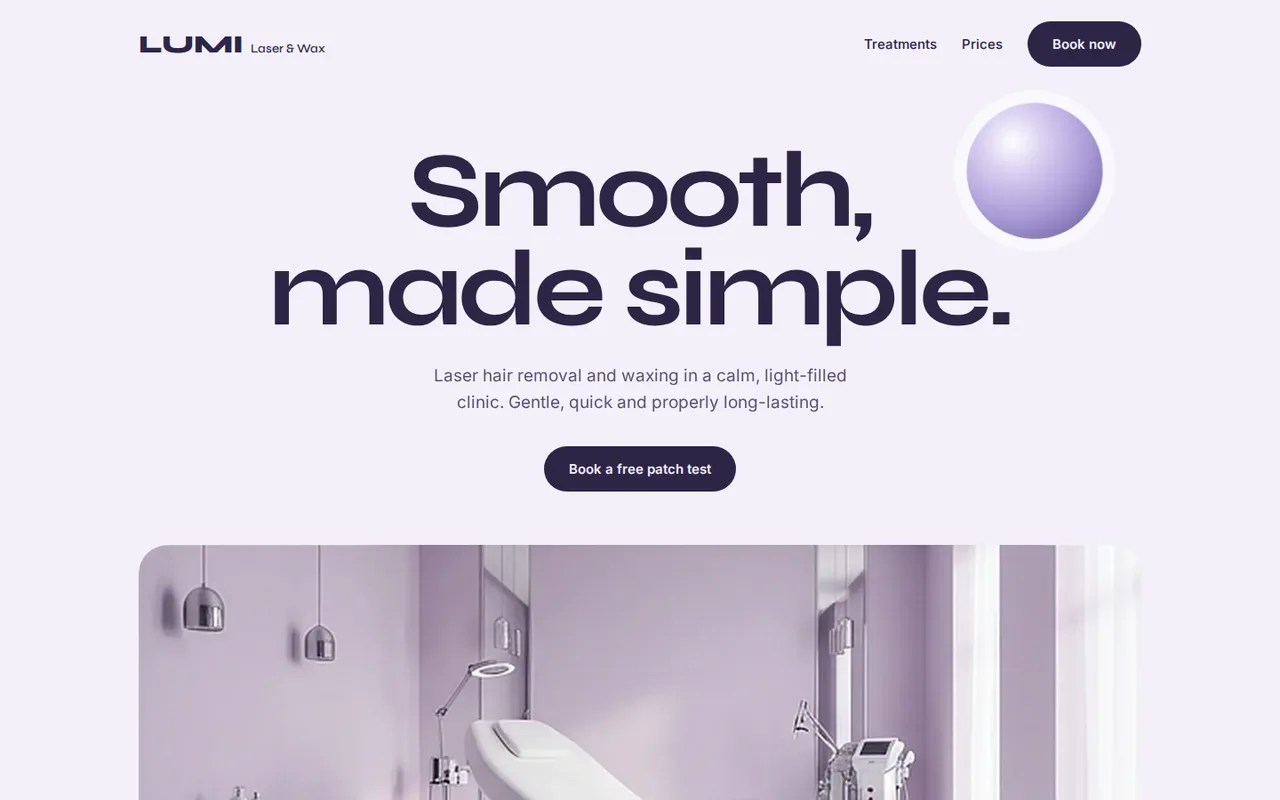
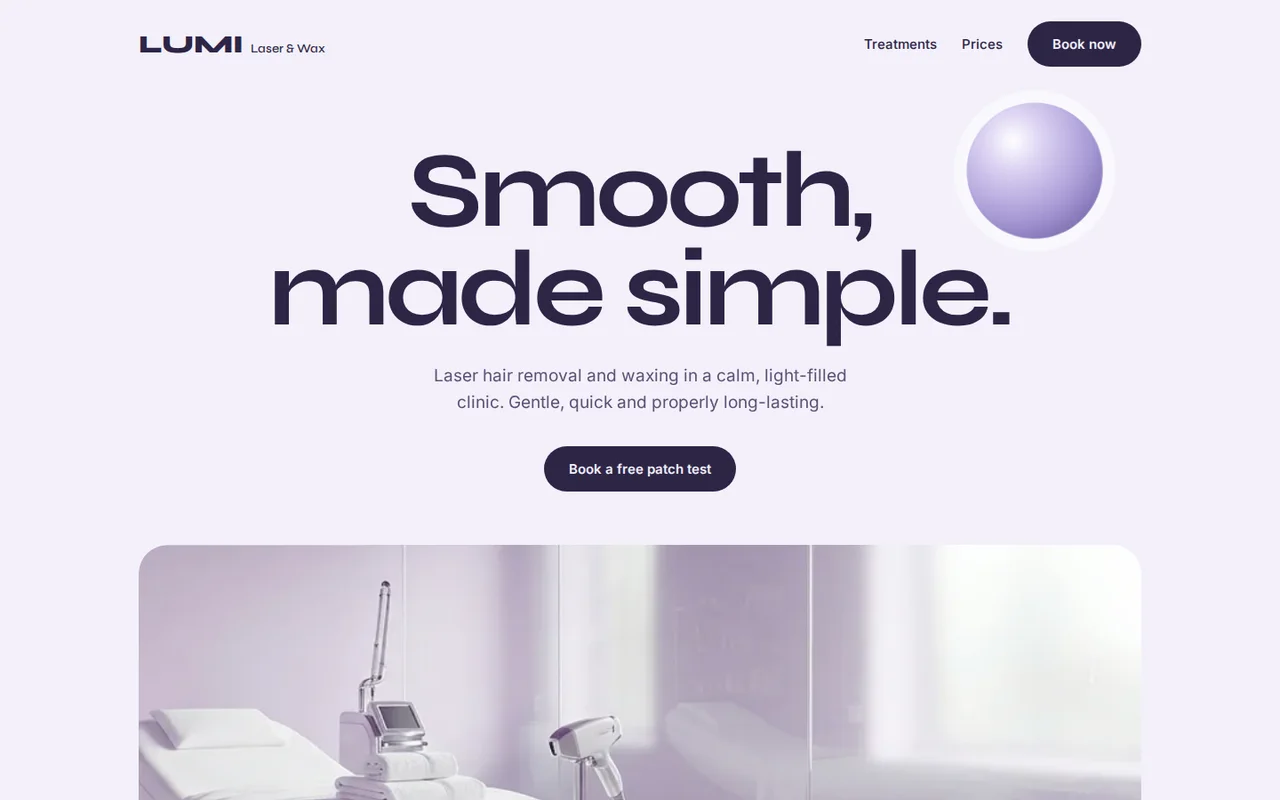
Sharper images, Nails Studio, copy polish

Changed region(s): [[0.0938, 0.6562, 0.9062, 1.0], [0.0938, 0.7188, 0.1875, 0.8125]]

diff --git a/index.html b/index.html
@@ -4,7 +4,7 @@
 <meta charset="utf-8">
 <meta name="viewport" content="width=device-width, initial-scale=1">
 <title>CA · Cindy Andruson Web Design Studio · Melbourne</title>
-<meta name="description" content="Beautiful websites that turn visitors into bookings - design, build and ongoing updates for salons, spas, clinics, cafés and studios in Melbourne. Free demo before you commit.">
+<meta name="description" content="Beautiful websites that turn visitors into bookings. Design, build and ongoing updates for salons, spas, clinics, cafés and studios in Melbourne. Free demo before you commit.">
 <meta name="theme-color" content="#FFF9F6">
 <meta property="og:type" content="website">
 <meta property="og:title" content="CA · Cindy Andruson Web Design Studio">
@@ -113,7 +113,7 @@ a:focus-visible{outline:2px solid #7A4B8C;outline-offset:4px;border-radius:99px}
         <span style="display: block; overflow: hidden"><span class="rise" style="animation-delay: 0.3s"><i class="shimmer">seriously</i> built.</span></span>
       </h1>
       <div class="fade" style="position: relative; display: flex; flex-wrap: wrap; gap: 20px; align-items: flex-end; justify-content: space-between; animation-delay: 0.6s">
-        <p style="margin: 0; max-width: 440px; font-size: 17px; line-height: 1.6; color: #4A3E4F">Beautiful websites that turn visitors into bookings - for salons, spas, clinics, cafés and studios.</p>
+        <p style="margin: 0; max-width: 440px; font-size: 17px; line-height: 1.6; color: #4A3E4F">Beautiful websites that turn visitors into bookings, for salons, spas, clinics, cafés and studios.</p>
         <div style="display: flex; flex-wrap: wrap; gap: 10px">
           <a class="btn-ink" href="mailto:andrusoncindy@gmail.com?subject=Free%20website%20demo" style="padding: 18px 30px; border-radius: 99px; text-decoration: none; font-weight: 600; font-size: 15px">Get your free demo</a>
           <a class="btn-soft" href="#work" style="padding: 18px 30px; border-radius: 99px; text-decoration: none; font-weight: 600; font-size: 15px">See the work</a>
@@ -147,7 +147,7 @@ a:focus-visible{outline:2px solid #7A4B8C;outline-offset:4px;border-radius:99px}
   <section id="work" style="max-width: 1320px; margin: 0 auto; padding: 60px clamp(16px, 4vw, 48px) 80px; display: flex; flex-direction: column; gap: 40px">
     <div class="reveal" style="display: flex; flex-wrap: wrap; gap: 20px; justify-content: space-between; align-items: flex-end">
       <h2 style="margin: 0; font-family: 'Instrument Serif', serif; font-weight: 400; font-size: clamp(48px, 6vw, 96px); line-height: 0.95; letter-spacing: -0.02em">Eight brands,<br><i class="shimmer">eight moods.</i></h2>
-      <p style="margin: 0; max-width: 360px; font-size: 16px; line-height: 1.65; color: #4A3E4F">Every site is designed from scratch - its own palette, type and personality.</p>
+      <p style="margin: 0; max-width: 360px; font-size: 16px; line-height: 1.65; color: #4A3E4F">Every site is designed from scratch, with its own palette, type and personality.</p>
     </div>
     <div class="grid3">
 <a class="tile reveal" href="https://natalyandruson.com" target="_blank" rel="noopener" style="text-decoration: none; color: inherit; border-radius: 32px; background: #F1ECE3; padding: 20px 20px 26px; display: flex; flex-direction: column; gap: 20px">
@@ -162,12 +162,12 @@ a:focus-visible{outline:2px solid #7A4B8C;outline-offset:4px;border-radius:99px}
         </a>
 <a class="tile reveal" href="/work/nails/" style="text-decoration: none; color: inherit; border-radius: 32px; background: #FAD7E0; padding: 20px 20px 26px; display: flex; flex-direction: column; gap: 20px">
           <div class="unveil" style="position: relative">
-            <div class="frame"><div style="border-radius:14px;overflow:hidden;background:#fff"><div style="display:flex;align-items:center;gap:6px;padding:9px 12px;background:#F3F0F1;border-bottom:1px solid rgba(0,0,0,.06)"><span style="width:9px;height:9px;border-radius:50%;background:#E3A3A9"></span><span style="width:9px;height:9px;border-radius:50%;background:#E9D2A6"></span><span style="width:9px;height:9px;border-radius:50%;background:#B9D4BE"></span><span style="margin-left:10px;flex:1;max-width:240px;padding:4px 12px;border-radius:99px;background:#fff;font-size:11px;color:#5F585A;white-space:nowrap;overflow:hidden">nails&amp;gel</span></div><img src="/work/nails.webp" alt="Homepage of the Nails&Gel website" loading="lazy" width="1280" height="800" style="display:block;width:100%;height:auto;aspect-ratio:16/10;object-fit:cover"></div></div>
+            <div class="frame"><div style="border-radius:14px;overflow:hidden;background:#fff"><div style="display:flex;align-items:center;gap:6px;padding:9px 12px;background:#F3F0F1;border-bottom:1px solid rgba(0,0,0,.06)"><span style="width:9px;height:9px;border-radius:50%;background:#E3A3A9"></span><span style="width:9px;height:9px;border-radius:50%;background:#E9D2A6"></span><span style="width:9px;height:9px;border-radius:50%;background:#B9D4BE"></span><span style="margin-left:10px;flex:1;max-width:240px;padding:4px 12px;border-radius:99px;background:#fff;font-size:11px;color:#5F585A;white-space:nowrap;overflow:hidden">nails studio</span></div><img src="/work/nails.webp" alt="Homepage of the Nails Studio website" loading="lazy" width="1280" height="800" style="display:block;width:100%;height:auto;aspect-ratio:16/10;object-fit:cover"></div></div>
             <span class="view" aria-hidden="true">View ↗</span>
           </div>
           <div style="display: flex; gap: 14px; align-items: flex-start; padding: 0 6px">
             <span class="num" style="font-family: 'Instrument Serif', serif; font-size: 40px; line-height: 0.85; color: rgba(43,34,51,0.3)">02</span>
-            <span style="display: flex; flex-direction: column; gap: 6px"><span style="font-family: 'Instrument Serif', serif; font-size: 32px; line-height: 1">Nails&amp;Gel</span><span style="font-size: 14px; color: #4A3E4F">Nail salon <span style="color: #A8436A">✦</span> Online booking</span></span>
+            <span style="display: flex; flex-direction: column; gap: 6px"><span style="font-family: 'Instrument Serif', serif; font-size: 32px; line-height: 1">Nails Studio</span><span style="font-size: 14px; color: #4A3E4F">Nail salon <span style="color: #A8436A">✦</span> Online booking</span></span>
           </div>
         </a>
 <a class="tile reveal" href="/work/spa/" style="text-decoration: none; color: inherit; border-radius: 32px; background: #DFE8D8; padding: 20px 20px 26px; display: flex; flex-direction: column; gap: 20px">
@@ -243,7 +243,7 @@ a:focus-visible{outline:2px solid #7A4B8C;outline-offset:4px;border-radius:99px}
       <div class="tile reveal" style="border-radius: 32px; background: #D8EFE5; padding: 32px; display: flex; flex-direction: column; gap: 14px">
         <span style="display: flex; justify-content: space-between; align-items: center"><span class="num" style="font-family: 'Instrument Serif', serif; font-size: 36px; color: rgba(43,34,51,0.35)">01</span><span class="arr" style="font-size: 26px">→</span></span>
         <span style="font-size: 22px; font-weight: 600">Design</span>
-        <span style="font-size: 15px; line-height: 1.6; color: #3B3540">A bespoke look made for your brand - never a template.</span>
+        <span style="font-size: 15px; line-height: 1.6; color: #3B3540">A bespoke look made for your brand, never a template.</span>
       </div>
       <div class="tile reveal" style="border-radius: 32px; background: #FBF1C7; padding: 32px; display: flex; flex-direction: column; gap: 14px">
         <span style="display: flex; justify-content: space-between; align-items: center"><span class="num" style="font-family: 'Instrument Serif', serif; font-size: 36px; color: rgba(43,34,51,0.35)">02</span><span class="arr" style="font-size: 26px">→</span></span>
@@ -258,7 +258,7 @@ a:focus-visible{outline:2px solid #7A4B8C;outline-offset:4px;border-radius:99px}
       <div class="tile reveal" style="grid-column: span 2; border-radius: 32px; background: #FCE3D2; padding: 32px; display: flex; flex-direction: column; gap: 14px">
         <span style="display: flex; justify-content: space-between; align-items: center"><span class="num" style="font-family: 'Instrument Serif', serif; font-size: 36px; color: rgba(43,34,51,0.35)">04</span><span class="arr" style="font-size: 26px">→</span></span>
         <span style="font-size: 22px; font-weight: 600">Updates &amp; care</span>
-        <span style="font-size: 15px; line-height: 1.6; color: #3B3540">New prices, services, photos and offers - updated for you whenever you need.</span>
+        <span style="font-size: 15px; line-height: 1.6; color: #3B3540">New prices, services, photos and offers, updated for you whenever you need.</span>
       </div>
     </div>
   </section>
@@ -269,7 +269,7 @@ a:focus-visible{outline:2px solid #7A4B8C;outline-offset:4px;border-radius:99px}
       <div class="tile reveal" style="border-radius: 28px; border: 1.5px solid #2B2233; padding: 30px; display: flex; flex-direction: column; gap: 12px">
         <span style="width: 44px; height: 44px; border-radius: 50%; background: #FAD7E0; display: flex; align-items: center; justify-content: center; font-weight: 700">1</span>
         <span style="font-size: 22px; font-weight: 600">Free demo</span>
-        <span style="font-size: 15px; line-height: 1.6; color: #4A3E4F">I design a working concept of your new site - before you pay anything.</span>
+        <span style="font-size: 15px; line-height: 1.6; color: #4A3E4F">I design a working concept of your new site before you pay anything.</span>
       </div>
       <div class="tile reveal" style="border-radius: 28px; border: 1.5px solid #2B2233; padding: 30px; display: flex; flex-direction: column; gap: 12px">
         <span style="width: 44px; height: 44px; border-radius: 50%; background: #E4DBF6; display: flex; align-items: center; justify-content: center; font-weight: 700">2</span>
@@ -287,7 +287,7 @@ a:focus-visible{outline:2px solid #7A4B8C;outline-offset:4px;border-radius:99px}
         <span style="font-size: 15px; line-height: 1.6; color: #4A3E4F">Live on your domain, with updates on call.</span>
       </div>
     </div>
-    <p class="reveal" style="margin: 0; display: flex; gap: 10px; align-items: center; font-size: 15px; color: #4A3E4F"><span class="twinkle" style="color: #A8436A">✦</span>Several projects in the portfolio are concept designs - created exactly the way your free demo would be.</p>
+    <p class="reveal" style="margin: 0; display: flex; gap: 10px; align-items: center; font-size: 15px; color: #4A3E4F"><span class="twinkle" style="color: #A8436A">✦</span>Several projects in the portfolio are concept designs, created exactly the way your free demo would be.</p>
   </section>
 
   <section id="contact" style="max-width: 1320px; margin: 0 auto; padding: 40px clamp(16px, 4vw, 48px) 60px">

diff --git a/work/dental/index.html b/work/dental/index.html
@@ -40,7 +40,7 @@ nav{display:flex;justify-content:space-between;align-items:center;padding:22px 0
 .slots div{display:grid;grid-template-columns:repeat(4,1fr);gap:8px}
 .slots a{text-align:center;padding:12px 0;border-radius:12px;background:#EAF5F8;font-weight:600;font-size:14px;text-decoration:none;transition:background .3s,color .3s}
 .slots a:hover,.slots a.on{background:#10384A;color:#fff}
-.heroimg{aspect-ratio:4/4.4;border-radius:28px;animation:slide 1.2s .1s cubic-bezier(.2,.8,.2,1) both}
+.heroimg{aspect-ratio:4/4.8;border-radius:28px;animation:slide 1.2s .1s cubic-bezier(.2,.8,.2,1) both}
 .sec{padding:100px 0}
 .h2{font-size:clamp(38px,4.6vw,64px);letter-spacing:-.04em;font-weight:600;line-height:1;margin:0 0 46px}
 .grid{display:grid;grid-template-columns:repeat(3,1fr);gap:16px}
@@ -68,15 +68,15 @@ footer{padding:34px 0 90px;display:flex;justify-content:space-between;flex-wrap:
 <div class="wrap">
 <nav><a class="logo" href="#">bright<span>.</span></a><div class="links"><a href="#treatments">Treatments</a><a href="#clinic">The clinic</a><a class="btn" href="#book">Book online</a></div></nav>
 <section class="hero">
- <div><span class="badge"><i></i>New patients welcome</span><h1>Calm, modern dentistry.</h1><p>Gentle, unhurried care in a bright clinic - from check-ups to smile makeovers.</p>
+ <div><span class="badge"><i></i>New patients welcome</span><h1>Calm, modern dentistry.</h1><p>Gentle, unhurried care in a bright clinic, from check-ups to smile makeovers.</p>
   <div style="display:flex;gap:10px;flex-wrap:wrap"><a class="btn" href="#book">Book an appointment</a><a class="btn light" href="#treatments">Our treatments</a></div>
   <div class="slots"><small>Next available today</small><div><a href="#book">9:30</a><a class="on" href="#book">11:00</a><a href="#book">2:15</a><a href="#book">4:40</a></div></div>
  </div>
- <div class="heroimg ph"><img src="../img/dental-1.webp" alt="A natural, confident smile"></div>
+ <div class="heroimg ph"><img src="../img/dental-reception.webp" alt="Bright reception with a curved white desk and soft blue chairs"></div>
 </section>
 <section class="sec" id="treatments" style="padding-top:20px"><h2 class="h2 r">Everything your smile needs</h2><div class="grid"><div class="svc r" style="transition-delay:0.00s"><svg viewBox="0 0 24 24" aria-hidden="true"><path d="M7 3c-2.5 0-4 2-4 4.5C3 13 6 21 8 21s2-5 4-5 2 5 4 5 5-8 5-13.5C21 5 19.5 3 17 3c-2 0-3 1-5 1S9 3 7 3z"/></svg><h3>Check-up &amp; clean</h3><p>A thorough exam, gentle clean and polish.</p></div><div class="svc r" style="transition-delay:0.06s"><svg viewBox="0 0 24 24" aria-hidden="true"><path d="M12 3v4M12 17v4M3 12h4M17 12h4M6 6l2.5 2.5M15.5 15.5L18 18M6 18l2.5-2.5M15.5 8.5L18 6"/></svg><h3>Whitening</h3><p>In-chair or take-home, for a natural bright smile.</p></div><div class="svc r" style="transition-delay:0.12s"><svg viewBox="0 0 24 24" aria-hidden="true"><circle cx="12" cy="12" r="9"/><path d="M8 14c1 1.5 2.4 2 4 2s3-.5 4-2"/><path d="M9 9.5h.01M15 9.5h.01"/></svg><h3>Cosmetic dentistry</h3><p>Bonding, veneers and smile makeovers.</p></div><div class="svc r" style="transition-delay:0.18s"><svg viewBox="0 0 24 24" aria-hidden="true"><path d="M12 3l8 3v6c0 5-3.5 8-8 9-4.5-1-8-4-8-9V6z"/></svg><h3>Fillings &amp; repairs</h3><p>Tooth-coloured fillings that blend right in.</p></div><div class="svc r" style="transition-delay:0.24s"><svg viewBox="0 0 24 24" aria-hidden="true"><path d="M12 20s-7-4.4-7-10a4 4 0 0 1 7-2.6A4 4 0 0 1 19 10c0 5.6-7 10-7 10z"/></svg><h3>Nervous patients</h3><p>Extra time, calm explanations, no rushing.</p></div><div class="svc r" style="transition-delay:0.30s"><svg viewBox="0 0 24 24" aria-hidden="true"><circle cx="12" cy="12" r="9"/><path d="M12 7v5l3 2"/></svg><h3>Emergency care</h3><p>Same-day appointments when it hurts.</p></div></div></section>
-<section id="clinic"><div class="clinic ph r"><img src="../img/dental-hero.webp" alt="Bright clinic with treatment chairs and plants" loading="lazy"><div class="cap"><b>Light, plants, quiet.</b><span>A clinic designed to feel nothing like a dentist.</span></div></div></section>
-<section class="sec"><div class="split"><div class="ph r"><img src="../img/dental-2.webp" alt="Curved white reception desk with soft blue detail" loading="lazy"></div><div class="r"><h2 class="h2" style="margin-bottom:0">Calm from the moment you arrive.</h2><ul><li>Online booking, day or night</li><li>Clear prices before any treatment</li><li>Health fund rebates on the spot</li></ul></div></div></section>
+<section id="clinic"><div class="clinic ph r"><img src="../img/dental-lobby.webp" alt="Light-filled waiting area with plants and blue armchairs" loading="lazy"><div class="cap"><b>Light, plants, quiet.</b><span>A clinic designed to feel nothing like a dentist.</span></div></div></section>
+<section class="sec"><div class="split"><div class="ph r"><img src="../img/dental-1.webp" alt="A natural, confident smile" loading="lazy"></div><div class="r"><h2 class="h2" style="margin-bottom:0">Calm from the moment you arrive.</h2><ul><li>Online booking, day or night</li><li>Clear prices before any treatment</li><li>Health fund rebates on the spot</li></ul></div></div></section>
 <section class="cta r" id="book"><h2>Your next check-up is one click away.</h2><a class="btn" href="#">Book an appointment</a></section>
 <footer><span>Bright Dental Studio · Melbourne</span><span>Monday - Saturday</span></footer>
 </div>

diff --git a/work/nails/index.html b/work/nails/index.html
@@ -3,8 +3,8 @@
 <head>
 <meta charset="utf-8">
 <meta name="viewport" content="width=device-width, initial-scale=1">
-<title>Nails&Gel - Nail studio, Melbourne CBD</title>
-<meta name="description" content="Gel, BIAB and nail art in Melbourne CBD.">
+<title>Nails Studio - Gel, BIAB and nail art, Melbourne</title>
+<meta name="description" content="Gel, BIAB and nail art in Melbourne.">
 <meta name="theme-color" content="#FFF1F5">
 <meta name="robots" content="noindex">
 <link rel="icon" href="/favicon.svg" type="image/svg+xml">
@@ -49,7 +49,7 @@ nav{display:flex;justify-content:space-between;align-items:center;padding:26px 0
 .card h3{font-family:'DM Serif Display',serif;font-weight:400;font-size:28px;margin:0}
 .card p{margin:0;font-size:15px;line-height:1.6;color:#7A3550}.card span{font-size:13px;font-weight:600;color:#C2185B;margin-top:auto}
 .gal{display:grid;grid-template-columns:1.3fr 1fr;grid-template-rows:auto auto;gap:16px}
-.gal .ph{border-radius:28px}.gal .a{grid-row:span 2;aspect-ratio:4/4.2}.gal .b,.gal .c{aspect-ratio:16/10}
+.gal .ph{border-radius:28px}.gal .a{grid-row:span 2;aspect-ratio:4/4.6}.gal .b,.gal .c{aspect-ratio:16/10}
 .studio{position:relative;border-radius:40px;aspect-ratio:21/9;min-height:380px}
 .studio .over{position:absolute;inset:auto 0 0 0;padding:44px;background:linear-gradient(transparent,rgba(91,22,49,.75));color:#fff}
 .studio .over p{font-family:'DM Serif Display',serif;font-size:clamp(30px,3.6vw,52px);line-height:1.05;margin:0;max-width:640px}
@@ -64,11 +64,11 @@ footer{border-top:1px solid #F5C6D6;padding:30px 0 90px;display:flex;justify-con
 </head>
 <body>
 <div class="wrap">
-<nav><a class="logo" href="#">Nails&amp;Gel</a><div class="links"><a href="#services">Services</a><a href="#gallery">Gallery</a><a class="btn" href="#book">Book online</a></div></nav>
+<nav><a class="logo" href="#">Nails Studio</a><div class="links"><a href="#services">Services</a><a href="#gallery">Gallery</a><a class="btn" href="#book">Book online</a></div></nav>
 <section class="hero">
  <div>
   <h1 class="serif up">Your nails,<br>but make it <i>art</i>.</h1>
-  <p class="up" style="animation-delay:.15s">Gel, BIAB and hand-painted nail art in a calm pink studio in the heart of Melbourne.</p>
+  <p class="up" style="animation-delay:.15s">Gel, BIAB and hand-painted nail art in a calm pink studio in Melbourne.</p>
   <div class="up" style="animation-delay:.3s;display:flex;gap:10px;flex-wrap:wrap"><a class="btn" href="#book">Book online</a><a class="btn ghost" href="#gallery">See the sets</a></div>
   <div class="chips up" style="animation-delay:.45s"><span class="chip"><span class="dot" style="background:#F7A8C0"></span>Chrome</span><span class="chip"><span class="dot" style="background:#C2185B"></span>Cherry</span><span class="chip"><span class="dot" style="background:#fff;border:1px solid #F5C6D6"></span>Milky</span><span class="chip"><span class="dot" style="background:#8E1D45"></span>Merlot</span></div>
  </div>
@@ -89,15 +89,15 @@ footer{border-top:1px solid #F5C6D6;padding:30px 0 90px;display:flex;justify-con
  <div class="gal">
   <div class="ph a r"><img src="../img/nails-1.webp" alt="Almond nails with pearl accents and gold detail" loading="lazy"></div>
   <div class="ph b r"><img src="../img/nails-3.webp" alt="Pink and cherry nail polish bottles" loading="lazy"></div>
-  <div class="ph c r"><img src="../img/nails-station.webp" alt="Marble manicure station with pink chair" loading="lazy"></div>
+  <div class="ph c r"><img src="../img/nails-station.webp" alt="Marble manicure table with pink velvet chair" loading="lazy"></div>
  </div>
 </div></section>
-<div class="wrap"><div class="studio ph r"><img src="../img/nails-2.webp" alt="The Nails&amp;Gel studio" loading="lazy"><div class="over"><p>A little pink studio, right in the city.</p></div></div></div>
+<div class="wrap"><div class="studio ph r"><img src="../img/nails-band.webp" alt="Hands with glossy pink chrome nails on pink satin" loading="lazy"><div class="over"><p>Chrome, gloss and colour that lasts.</p></div></div></div>
 <section class="cta" id="book"><div class="wrap">
  <h2 class="serif r">Ready for <i>new nails?</i></h2>
  <a class="btn r" href="#">Book online</a>
 </div></section>
-<div class="wrap"><footer><span>Nails&amp;Gel · Melbourne CBD</span><span>Open 7 days</span></footer></div>
+<div class="wrap"><footer><span>Nails Studio · Melbourne</span><span>Open 7 days</span></footer></div>
 <a class="ca-ribbon" href="/#work"><span>✦</span>Concept design by <b>CA Studio</b></a>
 <script>
 (function(){if(!('IntersectionObserver' in window))return;document.documentElement.classList.add('js');

diff --git a/work/spa/index.html b/work/spa/index.html
@@ -27,7 +27,7 @@ body{background:#F4F2EC;color:#36423A;font-family:Inter,system-ui,sans-serif;fon
 @keyframes kb{from{transform:scale(1.12)}to{transform:scale(1)}}
 .hero{position:relative;height:min(92vh,860px);min-height:560px;color:#F7F4EC;overflow:hidden}
 .hero img{position:absolute;inset:0;width:100%;height:100%;object-fit:cover;animation:kb 8s cubic-bezier(.2,.8,.2,1) both}
-.hero::after{content:"";position:absolute;inset:0;background:linear-gradient(180deg,rgba(30,38,32,.45),rgba(30,38,32,.05) 35%,rgba(30,38,32,.6))}
+.hero::after{content:"";position:absolute;inset:0;background:linear-gradient(180deg,rgba(30,38,32,.62),rgba(30,38,32,.12) 30%,rgba(30,38,32,.18) 55%,rgba(30,38,32,.66))}
 .hero nav{position:relative;z-index:2;display:flex;justify-content:space-between;align-items:center;padding:30px 0}
 .logo{font-family:'Cormorant Garamond',serif;font-style:italic;font-size:34px;text-decoration:none}
 .links{display:flex;gap:34px;font-size:13px;letter-spacing:.18em;text-transform:uppercase}.links a{text-decoration:none}
@@ -60,13 +60,13 @@ footer{padding:34px 0 90px;border-top:1px solid #CBD2C3;display:flex;justify-con
 </head>
 <body>
 <header class="hero">
- <img src="../img/spa-1.webp" alt="A guest receiving a slow back massage in soft daylight">
+ <img src="../img/spa-room.webp" alt="A calm treatment room with sage walls, linen and a garden view">
  <div class="wrap"><nav><a class="logo" href="#">Sōl Day Spa</a><div class="links"><a href="#rituals">Rituals</a><a href="#space">The space</a><a href="#book">Book</a></div></nav></div>
  <div class="txt"><div class="wrap"><h1 class="serif">Slow rituals for<br><i>body</i> and mind.</h1><a class="btn" href="#book" style="animation:fade 1.4s .8s both">Book a ritual</a></div></div>
 </header>
-<section class="intro wrap"><p class="serif r">An hour to breathe out. Warm stone, soft linen and unhurried hands - a quiet place to come back to yourself.</p><small class="r">Day spa · Melbourne</small></section>
+<section class="intro wrap"><p class="serif r">An hour to breathe out. Warm stone, soft linen and unhurried hands. A quiet place to come back to yourself.</p><small class="r">Day spa · Melbourne</small></section>
 <section class="wrap menu" id="rituals">
- <div class="ph r"><img src="../img/spa-hero.webp" alt="A calm treatment room with sage walls and a linen-covered table" loading="lazy"></div>
+ <div class="ph r"><img src="../img/spa-massage.webp" alt="A guest relaxing during a warm oil back massage" loading="lazy"></div>
  <div>
   <h2 class="serif r">Rituals</h2>
   <div class="item r"><h3>Sōl signature massage</h3><span class="p">60 / 90 min</span><p>Full body, slow and deep, with warm botanical oil.</p></div>
@@ -77,8 +77,8 @@ footer{padding:34px 0 90px;border-top:1px solid #CBD2C3;display:flex;justify-con
 </section>
 <section class="still" id="space"><div class="wrap">
  <div class="pair">
-  <figure class="r"><div class="ph"><img src="../img/spa-2.webp" alt="Hot stones and eucalyptus on folded linen" loading="lazy"></div><figcaption>Warm stones, fresh eucalyptus</figcaption></figure>
-  <figure class="r" style="transition-delay:.12s"><div class="ph"><img src="../img/spa-3.webp" alt="Amber oil bottles with lavender on travertine" loading="lazy"></div><figcaption>Oils blended in house</figcaption></figure>
+  <figure class="r"><div class="ph"><img src="../img/spa-2.webp" alt="Hot stones and eucalyptus on folded linen by the window" loading="lazy"></div><figcaption>Warm stones, fresh eucalyptus</figcaption></figure>
+  <figure class="r" style="transition-delay:.12s"><div class="ph"><img src="../img/spa-3.webp" alt="Amber oil bottles with lavender and dried botanicals on travertine" loading="lazy"></div><figcaption>Oils blended in house</figcaption></figure>
  </div>
 </div></section>
 <section class="cta wrap" id="book"><h2 class="serif r">Make time<br><i>for yourself.</i></h2><a class="btn r" href="#">Book a ritual</a></section>

diff --git a/work/skin/index.html b/work/skin/index.html
@@ -66,20 +66,20 @@ footer{border-top:1px solid #E7C9B8;padding:30px 0 90px;display:flex;justify-con
 <div class="wrap">
 <nav><a class="logo" href="#">Dew <small>Skin Clinic</small></a><div class="links"><a href="#treatments">Treatments</a><a href="#visit">Your visit</a><a class="btn" href="#book">Book</a></div></nav>
 <section class="hero">
- <div><h1 class="serif">Skin, but<br><i>glowing</i>.</h1><p>Facials and skin treatments that bring back your natural glow - gentle, results-led and made for your skin.</p><a class="btn" href="#book" style="animation:up 1.3s .3s both">Book a skin consultation</a></div>
+ <div><h1 class="serif">Skin, but<br><i>glowing</i>.</h1><p>Facials and skin treatments that bring back your natural glow. Gentle, results-led and made for your skin.</p><a class="btn" href="#book" style="animation:up 1.3s .3s both">Book a skin consultation</a></div>
  <div class="archwrap"><div class="arch ph"><img src="../img/skin-hero.webp" alt="Woman with dewy glowing skin and closed eyes"></div></div>
 </section>
 </div>
 <section class="sec" id="treatments" style="background:#FAE9DD"><div class="wrap">
  <h2 class="h2 serif r">Treatments</h2>
  <div class="tr">
-  <figure class="r"><div class="ph"><img src="../img/skin-1.webp" alt="Esthetician applying a facial mask with a brush" loading="lazy"></div><h3>Signature facial</h3><p>Cleanse, exfoliate, mask and massage for instant radiance.</p><span>60 min</span></figure>
+  <figure class="r"><div class="ph"><img src="../img/skin-1.webp" alt="Esthetician applying a peach clay mask with a brush" loading="lazy"></div><h3>Signature facial</h3><p>Cleanse, exfoliate, mask and massage for instant radiance.</p><span>60 min</span></figure>
   <figure class="r" style="transition-delay:.1s"><div class="ph"><img src="../img/skin-mask.webp" alt="Client relaxing during a peach clay mask" loading="lazy"></div><h3>Glow peel</h3><p>A gentle enzyme peel that smooths texture and brightens.</p><span>45 min</span></figure>
   <figure class="r" style="transition-delay:.2s"><div class="ph"><img src="../img/skin-2.webp" alt="Glass serum bottles on peach stone" loading="lazy"></div><h3>Hydration boost</h3><p>Layered serums and LED light for deeply plump skin.</p><span>50 min</span></figure>
  </div>
 </div></section>
 <section class="sec"><div class="wrap">
- <div class="band r"><div class="ph"><img src="../img/skin-3.webp" alt="Swatch of creamy peach skincare" loading="lazy"></div><div class="t"><h2 class="serif">Results you can <i>feel</i>.</h2><p>Every treatment starts with a skin analysis, so we only use what your skin actually needs - and send you home with a simple routine.</p></div></div>
+ <div class="band r"><div class="ph"><img src="../img/skin-3.webp" alt="Swatch of creamy peach skincare" loading="lazy"></div><div class="t"><h2 class="serif">Results you can <i>feel</i>.</h2><p>Every treatment starts with a skin analysis, so we only use what your skin actually needs, and send you home with a simple routine.</p></div></div>
 </div></section>
 <section class="sec" id="visit" style="padding-top:20px"><div class="wrap">
  <h2 class="h2 serif r">Your first visit</h2>

diff --git a/work/laser/index.html b/work/laser/index.html
@@ -68,12 +68,12 @@ footer{padding:34px 0 90px;display:flex;justify-content:space-between;flex-wrap:
  <h1>Smooth,<br>made simple.</h1>
  <p>Laser hair removal and waxing in a calm, light-filled clinic. Gentle, quick and properly long-lasting.</p>
  <a class="btn" href="#book" style="animation:up 1.2s .3s both">Book a free patch test</a>
- <div class="heroimg ph"><img src="../img/laser-hero.webp" alt="A bright lilac treatment room with a white treatment chair"></div>
+ <div class="heroimg ph"><img src="../img/laser-hero.webp" alt="A bright lilac treatment room with a white treatment bed and laser device"></div>
 </section>
 <section class="sec" id="treatments">
  <h2 class="h2 r">Treatments</h2>
  <div class="tr">
-  <div class="tcard r"><div class="ph"><img src="../img/laser-device.webp" alt="Chrome laser handpiece on lilac" loading="lazy"></div><h3>Laser hair removal</h3><p>Medical-grade diode laser for every skin type.</p></div>
+  <div class="tcard r"><div class="ph"><img src="../img/laser-device.webp" alt="Chrome laser device on a lilac background" loading="lazy"></div><h3>Laser hair removal</h3><p>Medical-grade diode laser for every skin type.</p></div>
   <div class="tcard r" style="transition-delay:.1s"><div class="ph"><img src="../img/laser-3.webp" alt="Warm honey wax with wooden spatulas" loading="lazy"></div><h3>Waxing</h3><p>Low-temperature wax that is kind to sensitive skin.</p></div>
   <div class="tcard r" style="transition-delay:.2s"><div class="ph"><img src="../img/laser-1.webp" alt="Smooth legs resting on white sheets" loading="lazy"></div><h3>Results</h3><p>Most clients see lasting smoothness after 6-8 sessions.</p></div>
  </div>
@@ -90,7 +90,7 @@ footer{padding:34px 0 90px;display:flex;justify-content:space-between;flex-wrap:
  <h2 class="h2 r">Good to know</h2>
  <details class="r" open><summary>Does it hurt?</summary><p>Most clients describe a quick warm snap. Our cooling tip keeps every session comfortable.</p></details>
  <details class="r"><summary>How many sessions will I need?</summary><p>Usually 6 to 8, spaced 4 to 6 weeks apart, depending on the area and your hair type.</p></details>
- <details class="r"><summary>Is there downtime?</summary><p>None. You can go straight back to your day - just skip the sun and hot showers for 24 hours.</p></details>
+ <details class="r"><summary>Is there downtime?</summary><p>None. You can go straight back to your day. Just skip the sun and hot showers for 24 hours.</p></details>
 </section>
 <section class="cta r" id="book"><span class="orb" style="left:6%;bottom:30px;width:110px;height:110px"></span><h2>Ready to skip<br>the razor?</h2><a class="btn" href="#">Book a free patch test</a></section>
 <footer><span>Lumi Laser &amp; Wax · Melbourne</span><span>Open late on Thursdays</span></footer>

diff --git a/work/hair/index.html b/work/hair/index.html
@@ -60,7 +60,7 @@ footer{border-top:1px solid #3A3133;padding:30px 0 90px;display:flex;justify-con
 <nav><a class="logo" href="#">ATELIER ROUGE</a><div class="links"><a href="#services">Services</a><a href="#bridal">Bridal</a><a href="#book">Book</a></div></nav>
 <section class="hero">
  <h1 class="big disp">Rouge</h1>
- <div class="img"><img src="../img/hair-hero.webp" alt="Woman with long glossy copper and red balayage"></div>
+ <div class="img"><img src="../img/hair-hero.webp" alt="Woman with long, flowing balayage with deep red tones"></div>
  <div class="side"><p>Colour-led hair studio. Lived-in balayage, precision cuts and bridal styling.</p><a class="btn" href="#book">Book a chair</a></div>
 </section>
 <div class="svc" id="services">
@@ -75,8 +75,8 @@ footer{border-top:1px solid #3A3133;padding:30px 0 90px;display:flex;justify-con
 </section>
 <div class="strip">
  <div class="ph r"><img src="../img/hair-2.webp" alt="Colourist painting balayage onto foil" loading="lazy"></div>
- <div class="ph r" style="transition-delay:.1s"><img src="../img/hair-foil.webp" alt="Close-up of highlights being painted" loading="lazy"></div>
- <div class="ph r" style="transition-delay:.2s"><img src="../img/hair-3.webp" alt="Comb, colour bowl, brush and hair products on black marble" loading="lazy"></div>
+ <div class="ph r" style="transition-delay:.1s"><img src="../img/hair-foil.webp" alt="Colourist painting highlights onto foil" loading="lazy"></div>
+ <div class="ph r" style="transition-delay:.2s"><img src="../img/hair-3.webp" alt="Wooden comb, red colour bowl, brush and serums on black marble" loading="lazy"></div>
 </div>
 <section class="cta" id="book"><h2 class="disp r">Your turn</h2><a class="btn r" href="#">Book a chair</a></section>
 <footer><span>Atelier Rouge · Melbourne</span><span>Wednesday - Saturday</span></footer>

diff --git a/work/cafe/index.html b/work/cafe/index.html
@@ -74,7 +74,7 @@ footer{padding:34px 0 90px;display:flex;justify-content:space-between;flex-wrap:
 </div></section>
 <section class="wrap" id="visit" style="padding-bottom:110px"><div class="visit">
  <div class="box r"><h3>Opening hours</h3><p>Monday - Friday · 7am - 3pm<br>Saturday - Sunday · 8am - 3pm</p></div>
- <div class="box dark r" style="transition-delay:.1s"><h3>Find us</h3><p>A little corner café in Melbourne.<br>Walk-ins only - pull up a stool.</p></div>
+ <div class="box dark r" style="transition-delay:.1s"><h3>Find us</h3><p>A little corner café in Melbourne.<br>Walk-ins only. Pull up a stool.</p></div>
 </div></section>
 <div class="wrap"><footer><span>Ember &amp; Oat · Melbourne</span><span>See you in the morning</span></footer></div>
 <a class="ca-ribbon" href="/#work"><span>✦</span>Concept design by <b>CA Studio</b></a>
